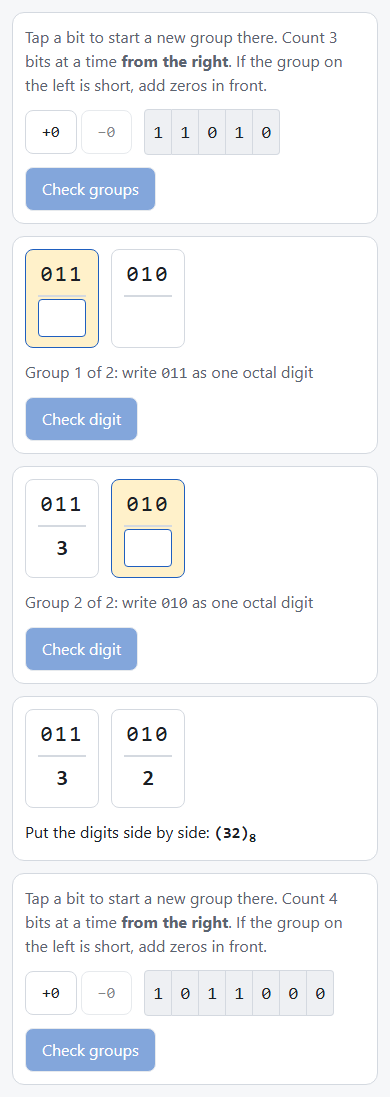
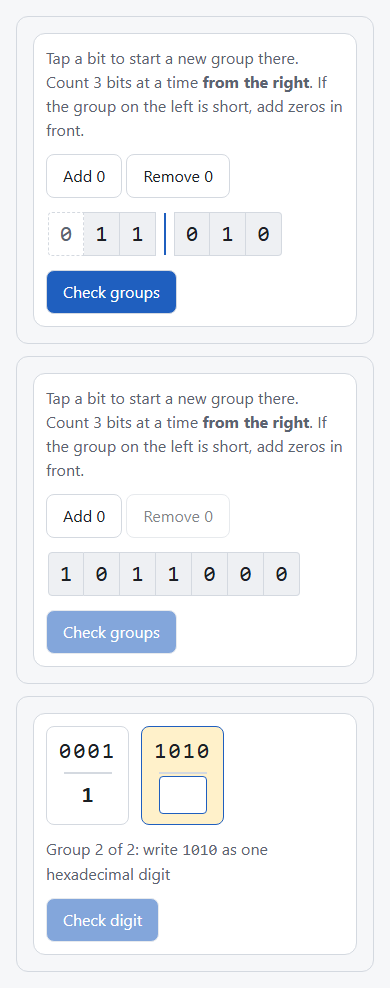
feat(stage): wire BitGrouping into the stage; per-step hint ladders; UX review (tap targets, dividers, labels)

diff --git a/src/stage/bitGrouping.test.tsx b/src/stage/bitGrouping.test.tsx
@@ -1,0 +1,106 @@
+import { describe, expect, it } from "vitest";
+import { render, screen } from "@testing-library/react";
+import userEvent from "@testing-library/user-event";
+import { useReducer } from "react";
+import type { Activity } from "@/content/schema";
+import { hex26, octal88 } from "@/content/fixtures/bitGrouping";
+import { createRunnerReducer, initialRunnerState, currentVariant, type RunnerAction, type RunnerState } from "./runnerReducer";
+import { QuestionView } from "./QuestionView";
+
+// A one-question activity built from the grouping fixtures (26 → 1A in hex; retry variant 88 → 130 in octal).
+const activity: Activity = {
+  id: "grouping",
+  title: "Grouping",
+  summary: "",
+  authority: "DEMO",
+  minutes: 1,
+  questions: [{ id: "q", conceptId: "c", objectiveId: "o", variants: [hex26, octal88] }],
+};
+const reducer = createRunnerReducer(activity);
+const groups = (g: string[]): RunnerAction => ({ type: "SUBMIT", answer: { kind: "bit-grouping", step: 0, groups: g } });
+const digit = (step: number, d: string): RunnerAction => ({ type: "SUBMIT", answer: { kind: "bit-grouping", step, digit: d } });
+const run = (actions: RunnerAction[], start = initialRunnerState(activity)): RunnerState => actions.reduce((s, a) => reducer(s, a), start);
+
+describe("runner reducer: octal/hex grouping, one goal at a time", () => {
+  it("marking the groups is its own step; each digit is the next goal", () => {
+    let s = run([{ type: "OPEN" }, groups(["0001", "1010"])]);
+    expect(s.stepIndex).toBe(1);
+    expect(s.completed[0]).toBe(false);
+    s = run([digit(1, "1")], s);
+    expect(s.stepIndex).toBe(2);
+    s = run([digit(2, "a")], s);
+    expect(s.tutor.stage).toBe("complete");
+    expect(s.completed[0]).toBe(true);
+  });
+
+  it("a wrong grouping is retried without moving on, with a nudge about the mistake", () => {
+    const s = run([{ type: "OPEN" }, groups(["1", "1010"])]);
+    expect(s.stepIndex).toBe(0);
+    expect(s.last?.result).toMatchObject({ correct: false, misconceptionId: "ns.group-no-padding" });
+    expect(s.message).toContain("add zeros on its left until it has 4 bits");
+  });
+
+  it("uses the hint ladder of the current kind of step", () => {
+    let s = run([{ type: "OPEN" }, groups(["1101", "0"]), groups(["110", "10"])]);
+    expect(s.hints.map((h) => h.text)).toEqual(["Groups of 4, starting at the right. Add 3 zero(s) on the left."]);
+    s = run([groups(["0001", "1010"]), digit(1, "1"), digit(2, "7"), digit(2, "7")], s);
+    expect(s.hints.map((h) => h.text)).toEqual(["Group 2 is 1010. What is its value?"]);
+  });
+
+  it("recognises 10 typed for A", () => {
+    const s = run([{ type: "OPEN" }, groups(["0001", "1010"]), digit(1, "1"), digit(2, "10")]);
+    expect(s.last?.result.misconceptionId).toBe("ns.hex-digit-decimal");
+    expect(s.stepIndex).toBe(2);
+  });
+});
+
+function Harness() {
+  const [state, dispatch] = useReducer(reducer, activity, initialRunnerState);
+  const variant = currentVariant(activity, state);
+  const stage = state.tutor.stage;
+  return (
+    <>
+      <QuestionView
+        key={`${variant.id}-${state.interactionKey}`}
+        variant={variant}
+        last={state.last}
+        stepIndex={state.stepIndex}
+        locked={stage === "complete" || stage === "explaining"}
+        explanation={state.explanation}
+        onSubmit={(answer) => dispatch({ type: "SUBMIT", answer })}
+        onPredict={() => {}}
+        onContinue={() => {}}
+      />
+      <output data-testid="stage">{stage}</output>
+    </>
+  );
+}
+
+describe("stage: grouping question rendered through QuestionView", () => {
+  it("walks 26 → (1A) in hex: pad and cut, then one digit per group, then the joined result", async () => {
+    render(<Harness />);
+    const user = userEvent.setup();
+    // step 0: nothing about the groups or digits is shown yet
+    expect(screen.queryByRole("textbox")).toBeNull();
+    for (let i = 0; i < 3; i++) await user.click(screen.getByRole("button", { name: "Add a leading zero" }));
+    await user.click(screen.getByRole("button", { name: /Bit 5 of 8: 1\. Start a new group here/ }));
+    await user.click(screen.getByRole("button", { name: "Check groups" }));
+
+    // step 1: first group only
+    const first = screen.getByLabelText("Group 1 of 2, 0001: hexadecimal digit");
+    expect(first).toHaveFocus();
+    expect(screen.getAllByRole("textbox")).toHaveLength(1);
+    await user.keyboard("1{Enter}");
+
+    // step 2: a wrong digit stays on this group
+    await user.keyboard("9{Enter}");
+    expect(screen.getByText("Not correct yet.")).toBeInTheDocument();
+    const second = screen.getByLabelText("Group 2 of 2, 1010: hexadecimal digit");
+    await user.clear(second);
+    await user.type(second, "a{Enter}");
+
+    expect(screen.getByTestId("stage")).toHaveTextContent("complete");
+    expect(screen.queryByRole("textbox")).toBeNull();
+    expect(document.querySelector("[data-focus-target='group-result']")).toHaveTextContent("(1A)16");
+  });
+});

diff --git a/src/stage/QuestionView.tsx b/src/stage/QuestionView.tsx
@@ -5,7 +5,7 @@ import type { CircuitSpec, Variant } from "@/content/schema";
 import type { Answer, GradeResult } from "@/content/grade";
 import { stepCount, stepVars } from "@/content/steps";
 import { fill } from "@/content/template";
-import { MultipleChoice, NumericInput, PlaceValueDiagram, CircuitDiagram, DivisionChain, PredictionBeforeReveal, type Bit, type PredictionResult } from "@/interactions";
+import { MultipleChoice, NumericInput, PlaceValueDiagram, CircuitDiagram, DivisionChain, BitGrouping, PredictionBeforeReveal, type Bit, type PredictionResult } from "@/interactions";
 import { BitGroups } from "./BitGroups";
 import styles from "./Stage.module.css";
 
@@ -136,6 +136,30 @@ function PracticeInput({
           onAnswer={(optionId) => onSubmit({ kind: "multiple-choice", optionId })}
         />
       );
+    case "bit-grouping": {
+      // Groups and digits come from the step contract: step k ≥ 1 is the digit of group k.
+      const count = stepCount(spec);
+      const digitSteps = Array.from({ length: count - 1 }, (_, i) => stepVars(spec, i + 1));
+      const finished = state === "correct";
+      return (
+        <>
+          <p className={styles.prompt}>{prompt}</p>
+          <BitGrouping
+            key={stepIndex}
+            id={variant.id}
+            bits={spec.bits}
+            groupSize={spec.groupSize}
+            stepIndex={finished ? count : stepIndex}
+            groups={digitSteps.map((v) => String(v.groupBits))}
+            digits={digitSteps.map((v) => String(v.digit))}
+            state={state === "incorrect" ? "incorrect" : "idle"}
+            disabled={locked}
+            onGroups={(groups) => onSubmit({ kind: "bit-grouping", step: 0, groups })}
+            onDigit={(digit) => onSubmit({ kind: "bit-grouping", step: stepIndex, digit })}
+          />
+        </>
+      );
+    }
     case "circuit-predict":
       return <CircuitWalk variant={variant} spec={spec} prompt={prompt} state={state} last={last} stepIndex={stepIndex} locked={locked} onSubmit={onSubmit} />;
   }
@@ -238,6 +262,21 @@ function ExplainVisual({ variant, stage, isLast, answered }: { variant: Variant;
       if (spec.context?.type === "bits")
         return <BitGroups bits={spec.context.bits} groups={(stage.groups as string[] | undefined) ?? []} attention={stage.attention as number | undefined} done={!!stage.done} />;
       return null;
+    case "bit-grouping": {
+      // stage.step: 0 = the bits before grouping; k ≥ 1 = groups shown, digits known for groups before k.
+      const digitSteps = Array.from({ length: stepCount(spec) - 1 }, (_, i) => stepVars(spec, i + 1));
+      return (
+        <BitGrouping
+          id={variant.id}
+          bits={spec.bits}
+          groupSize={spec.groupSize}
+          stepIndex={(stage.step as number | undefined) ?? 0}
+          groups={digitSteps.map((v) => String(v.groupBits))}
+          digits={digitSteps.map((v) => String(v.digit))}
+          attention={stage.attention as number | undefined}
+        />
+      );
+    }
     case "circuit-predict": {
       const active = stage.active as string | undefined;
       const lit = (stage.lit as string[] | undefined) ?? [];

diff --git a/src/interactions/BitGrouping/BitGrouping.tsx b/src/interactions/BitGrouping/BitGrouping.tsx
@@ -2,6 +2,7 @@
 
 import { useEffect, useId, useRef, useState } from "react";
 import { focusTarget } from "../shared/types";
+import { useScrollFade } from "../shared/useScrollFade";
 import styles from "./BitGrouping.module.css";
 
 export interface BitGroupingProps {
@@ -71,6 +72,9 @@ function MarkGroups({ bits, groupSize, onGroups, wrong }: { bits: string; groupS
   const [cuts, setCuts] = useState<number[]>([]);
   const padded = "0".repeat(pad) + bits;
   const interactive = !!onGroups;
+  // A long row scrolls inside its own box; the faded edge shows there is more.
+  const cellsRef = useRef<HTMLDivElement>(null);
+  const fade = useScrollFade(cellsRef);
 
   const toggle = (fromRight: number) => setCuts((c) => (c.includes(fromRight) ? c.filter((x) => x !== fromRight) : [...c, fromRight]));
   const marked = (): string[] => {
@@ -99,14 +103,14 @@ function MarkGroups({ bits, groupSize, onGroups, wrong }: { bits: string; groupS
       </p>
       <div className={styles.row} {...focusTarget("bits")}>
         <div className={styles.padButtons}>
-          <button type="button" className={`btn ${styles.pad}`} disabled={!interactive || pad >= groupSize} onClick={() => setPad((p) => p + 1)} aria-label="Add a zero on the left" {...focusTarget("pad-zero")}>
-            +0
+          <button type="button" className={`btn ${styles.pad}`} disabled={!interactive || pad >= groupSize} onClick={() => setPad((p) => p + 1)} aria-label="Add a leading zero" {...focusTarget("pad-zero")}>
+            Add 0
           </button>
-          <button type="button" className={`btn ${styles.pad}`} disabled={!interactive || pad === 0} onClick={() => setPad((p) => p - 1)} aria-label="Remove a zero from the left">
-            −0
+          <button type="button" className={`btn ${styles.pad}`} disabled={!interactive || pad === 0} onClick={() => setPad((p) => p - 1)} aria-label="Remove a leading zero">
+            Remove 0
           </button>
         </div>
-        <div className={styles.cells}>
+        <div className={styles.cells} ref={cellsRef} data-fade={fade}>
           {[...padded].map((bit, i) => {
             const fromRight = padded.length - i;
             const cut = i > 0 && cuts.includes(fromRight);

diff --git a/src/interactions/BitGrouping/BitGrouping.module.css b/src/interactions/BitGrouping/BitGrouping.module.css
@@ -31,20 +31,36 @@
 }
 
 .pad {
-  min-width: var(--touch-min);
   min-height: var(--touch-min);
-  padding: 0 var(--space-2);
-  font-family: var(--font-mono);
+  padding: 0 var(--space-3);
 }
 
 .cells {
-  --cell: 30px;
+  --cell: 36px;
   display: flex;
   align-items: stretch;
+  max-width: 100%;
+  overflow-x: auto;
+  /* room for the focus ring inside the scroll box */
+  padding: 2px;
 }
 
+.cells[data-fade="end"] {
+  mask-image: linear-gradient(to right, #000 calc(100% - 28px), transparent);
+}
+
+.cells[data-fade="start"] {
+  mask-image: linear-gradient(to left, #000 calc(100% - 28px), transparent);
+}
+
+.cells[data-fade="both"] {
+  mask-image: linear-gradient(to right, transparent, #000 28px, #000 calc(100% - 28px), transparent);
+}
+
+/* tap targets: at least 36 x 44 px */
 .cell {
-  box-sizing: content-box;
+  box-sizing: border-box;
+  flex: 0 0 var(--cell);
   display: grid;
   place-items: center;
   width: var(--cell);
@@ -83,13 +99,20 @@
   z-index: 1;
 }
 
-/* a new group starts at this bit: a clear gap and bar on its left */
+/* A new group starts at this bit: a gap with a 2 px divider in it, as the slide draws it. */
 .cut {
-  margin-inline-start: var(--space-3);
-  border-inline-start: 3px solid var(--accent);
-  border-start-start-radius: var(--radius-sm);
-  border-end-start-radius: var(--radius-sm);
-  transition: margin var(--dur-fast) var(--ease);
+  position: relative;
+  margin-inline-start: calc(2 * var(--space-2) + 2px);
+  border-inline-start-width: 1px;
+}
+
+.cut::before {
+  content: "";
+  position: absolute;
+  inset-block: 0;
+  inset-inline-start: calc(-1 * var(--space-2) - 3px);
+  width: 2px;
+  background: var(--accent);
 }
 
 .added {
@@ -172,13 +195,4 @@
 
 .result {
   margin: 0;
-}
-
-@media (max-width: 400px) {
-  .cells {
-    --cell: 26px;
-  }
-  .cell {
-    font-size: var(--text-md);
-  }
 }

diff --git a/src/interactions/BitGrouping/BitGrouping.test.tsx b/src/interactions/BitGrouping/BitGrouping.test.tsx
@@ -12,7 +12,7 @@ describe("BitGrouping: mark the groups (step 0)", () => {
     render(<BitGrouping {...base} stepIndex={0} onGroups={onGroups} />);
     const user = userEvent.setup();
     expect(screen.getByRole("button", { name: "Check groups" })).toBeDisabled();
-    await user.click(screen.getByRole("button", { name: "Add a zero on the left" }));
+    await user.click(screen.getByRole("button", { name: "Add a leading zero" }));
     // padded: 0 1 1 0 1 0 → cut before bit 4
     await user.click(screen.getByRole("button", { name: /Bit 4 of 6: 0\. Start a new group here/ }));
     await user.click(screen.getByRole("button", { name: "Check groups" }));
@@ -36,9 +36,9 @@ describe("BitGrouping: mark the groups (step 0)", () => {
     cut.focus();
     await user.keyboard("{Enter}");
     expect(cut).toHaveAttribute("aria-pressed", "true");
-    await user.click(screen.getByRole("button", { name: "Add a zero on the left" }));
+    await user.click(screen.getByRole("button", { name: "Add a leading zero" }));
     expect(screen.getByRole("button", { name: /Bit 4 of 6: 0\. Start a new group here/ })).toHaveAttribute("aria-pressed", "true");
-    await user.click(screen.getByRole("button", { name: "Remove a zero from the left" }));
+    await user.click(screen.getByRole("button", { name: "Remove a leading zero" }));
     screen.getByRole("button", { name: /Bit 3 of 5: 0\. Start a new group here/ }).focus();
     await user.keyboard(" ");
     expect(screen.queryByRole("button", { pressed: true })).toBeNull();

diff --git a/src/stage/runnerReducer.ts b/src/stage/runnerReducer.ts
@@ -6,7 +6,7 @@
 import type { Activity, Variant } from "@/content/schema";
 import { grade, type Answer, type GradeResult } from "@/content/grade";
 import { fill } from "@/content/template";
-import { stepVars as specStepVars } from "@/content/steps";
+import { hintsForStep, stepVars as specStepVars } from "@/content/steps";
 import { reduce, initialTutorState, contextFromVariant, type TutorState, type TutorAction, type Expression, type LearningEvent } from "@/tutor";
 import type { RevealedHint, PredictionResult } from "@/interactions";
 
@@ -106,7 +106,8 @@ export function initialRunnerState(activity: Activity): RunnerState {
 export function createRunnerReducer(activity: Activity) {
   function runTutor(s: RunnerState, event: LearningEvent): RunnerState {
     const variant = currentVariant(activity, s);
-    const ctx = { ...contextFromVariant(variant, "en", stepVars(variant, s.stepIndex)), hasOtherVariant: hasAnotherVariant(activity, s) };
+    // Hints may differ per kind of step (ADR-0007 §3): ask the step contract for this step's ladder.
+    const ctx = { ...contextFromVariant(variant, "en", stepVars(variant, s.stepIndex)), hints: hintsForStep(variant, s.stepIndex), hasOtherVariant: hasAnotherVariant(activity, s) };
     const { state: tutor, actions } = reduce(s.tutor, event, ctx);
     let next: RunnerState = { ...s, tutor };
     const effects: TutorAction[] = [];

diff --git a/src/interactions/shared/useScrollFade.ts b/src/interactions/shared/useScrollFade.ts
@@ -1,0 +1,30 @@
+"use client";
+
+import { useEffect, useState, type RefObject } from "react";
+
+export type ScrollFade = "none" | "start" | "end" | "both";
+
+/**
+ * Which edge(s) of a sideways-scrolling box hide content: "end" = more to the right, "start" =
+ * more to the left. Put the value in `data-fade` and fade that edge so scrolling is discoverable.
+ */
+export function useScrollFade(ref: RefObject<HTMLElement | null>): ScrollFade {
+  const [fade, setFade] = useState<ScrollFade>("none");
+  useEffect(() => {
+    const box = ref.current;
+    if (!box) return;
+    const update = () => {
+      const max = box.scrollWidth - box.clientWidth;
+      setFade(max <= 1 ? "none" : box.scrollLeft <= 1 ? "end" : box.scrollLeft >= max - 1 ? "start" : "both");
+    };
+    update();
+    box.addEventListener("scroll", update, { passive: true });
+    const observer = typeof ResizeObserver === "undefined" ? null : new ResizeObserver(update);
+    observer?.observe(box);
+    return () => {
+      box.removeEventListener("scroll", update);
+      observer?.disconnect();
+    };
+  }, [ref]);
+  return fade;
+}

diff --git a/src/interactions/BitGrouping/README.md b/src/interactions/BitGrouping/README.md
@@ -13,7 +13,8 @@ per group, left to right.
 ```
 
 - `stepIndex` 0: a row of bit cells. Tapping a bit starts a new group there (toggle button,
-  `aria-pressed`); `+0` / `−0` add or remove a leading zero. "Check groups" reports the marked
+  `aria-pressed`, at least 36 × 44 px) and shows a 2 px divider in a gap; "Add 0" / "Remove 0" pad
+  on the left. A row too long for its box scrolls inside it with a faded edge. "Check groups" reports the marked
   groups, padding included, left to right. The correct groups are not rendered in this step.
 - `stepIndex` k ≥ 1: every group in a box; only group k has an input (two characters allowed so
   "13" for D can be recognised; hex is upper-cased). Earlier groups show their digit, later
@@ -22,4 +23,4 @@ per group, left to right.
 - Never grades. Remount (change `key`) when `stepIndex` advances.
 - Without `onGroups` / `onDigit` it is read-only (explanations); `attention` outlines a group.
 - Focus targets: `bits`, `pad-zero`, `group-<i>`, `group-digit`, `group-result`.
-- Fits a 390 px phone for up to 9 bits (cells 26 px below 400 px); no animation beyond the cut gap.
+- At 390 px, 8 cells fit without scrolling; longer rows scroll inside the box.
